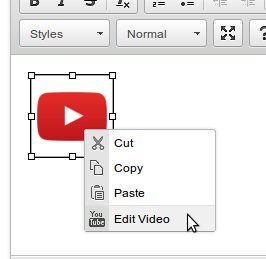
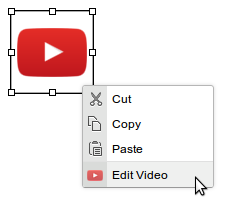
Fix youtube images

diff --git a/youtube.html b/youtube.html
@@ -6,7 +6,7 @@
   <ol>
     <li>
       <p>Click on the YouTube icon.</p>
-      <p><img src="images/youtube/show-icon.png"/></p>
+      <p class="icon"><img src="https://rawgit.com/ox-it/wl-ck-plugins/master/youtube/icons/youtube.png"/></p>
     </li>
     <li>
       <p>
@@ -23,14 +23,14 @@
         result to embed the video at the current cursor position.
       </p>
       <p><img src="images/youtube/show-results.png"/></p>
-      <p><img src="images/youtube/embed.png"/></p>
+      <p class="placeholder"><img src="https://rawgit.com/ox-it/wl-ck-plugins/master/youtube/icons/placeholder.png"/></p>
     </li>
     <li>
       <p>
         Right click on the video and select the Edit Video option to change the
         embedded video, and search just as above.
       </p>
-      <p><img src="images/youtube/edit-video.png"/></p>
+      <p ><img src="images/youtube/edit-video.png"/></p>
       <p>
         You will initially see the video ID in the search bar. This is
         intentional, as it ensures that you see the previously embedded
